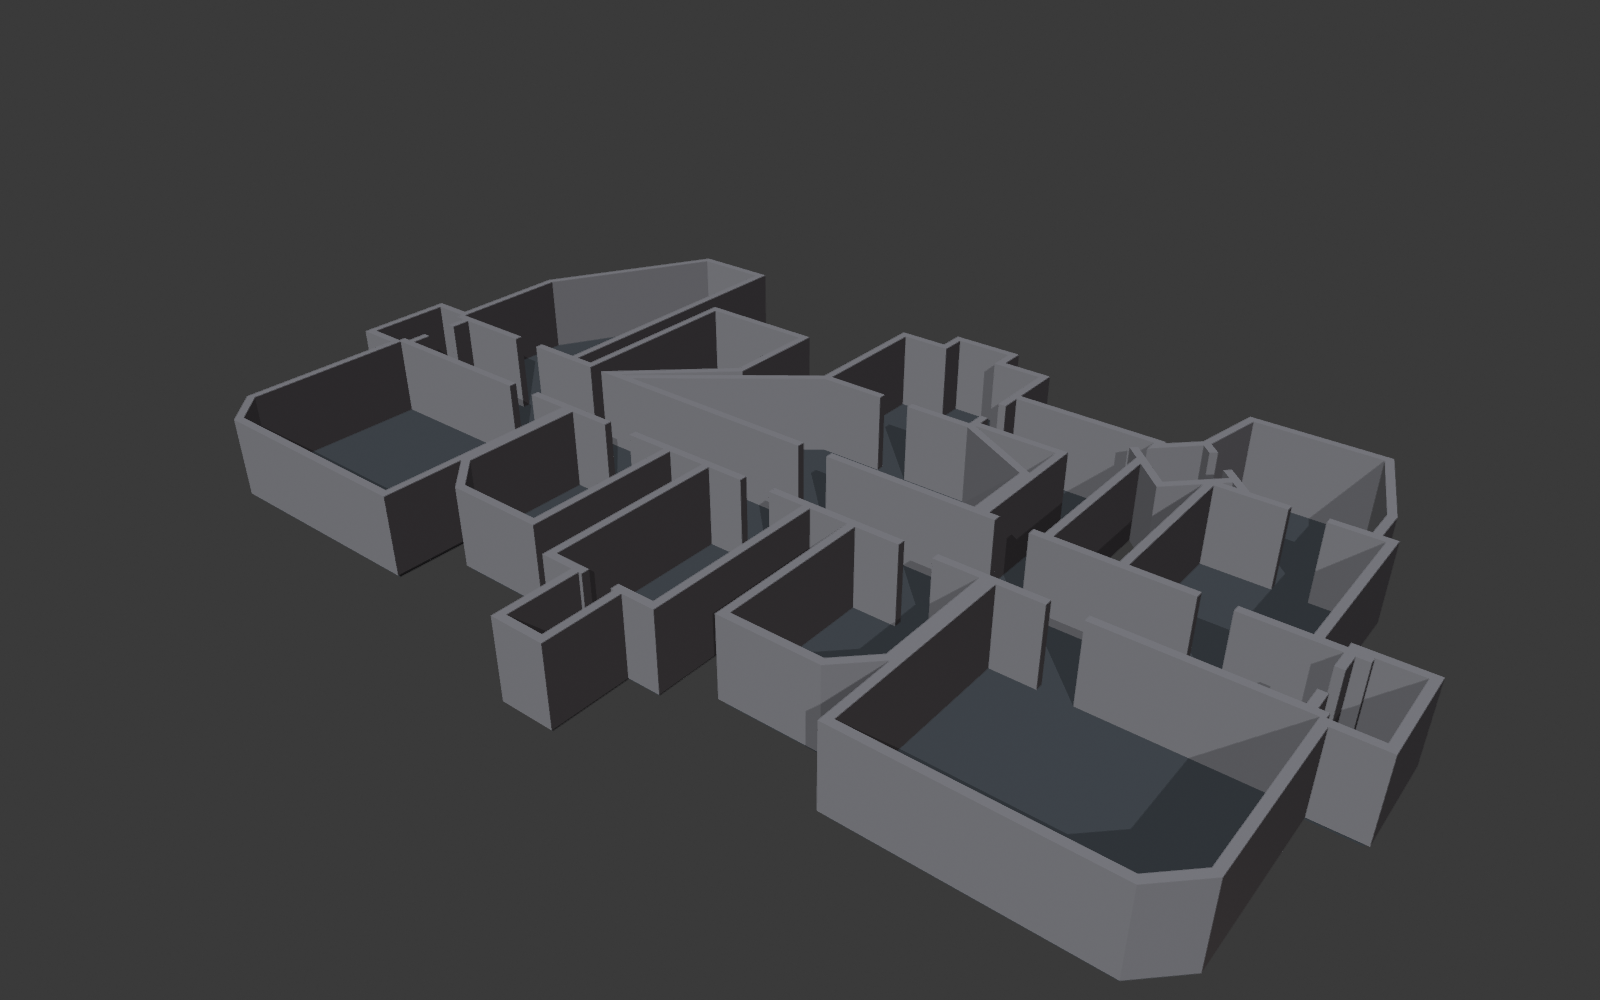
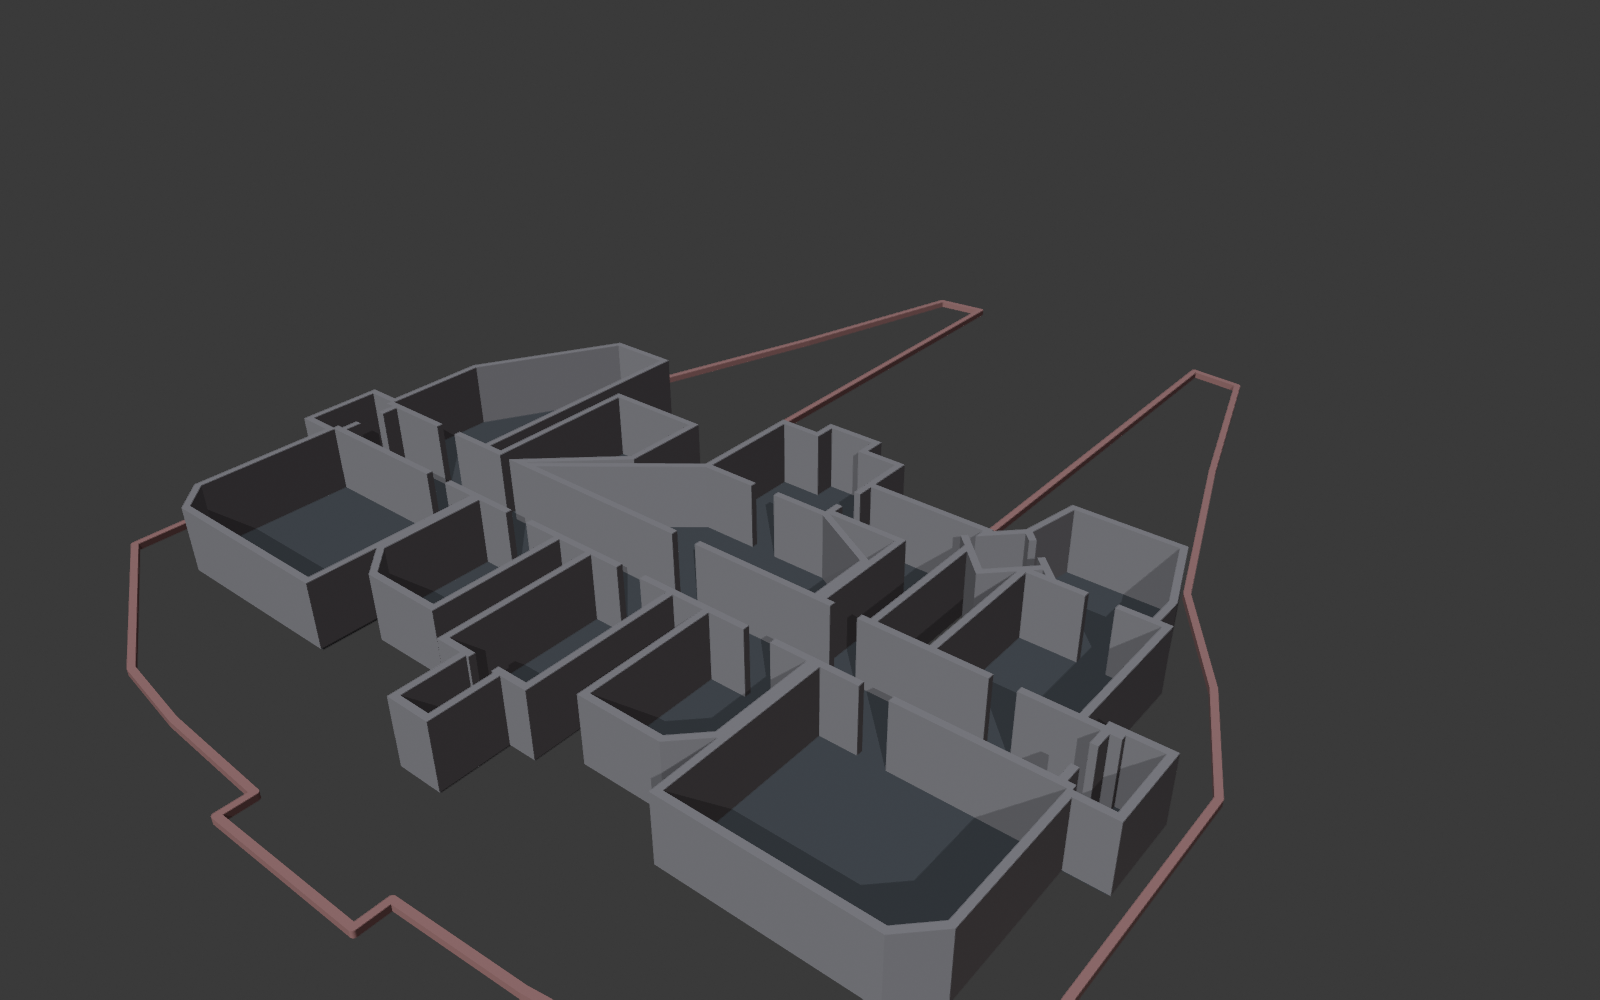
v13.59: Fury hull outline
Claude-Session: https://claude.ai/code/session_01SinQW9aeLHqCBjq9e21Gyo

Changed region(s): [[0.0625, 0.248, 0.9062, 1.0], [0.125, 0.744, 0.3438, 1.0]]

diff --git a/web_shell.html b/web_shell.html
@@ -4,8 +4,8 @@
 <meta charset="utf-8">
 <meta name="viewport" content="width=device-width,initial-scale=1,maximum-scale=1,user-scalable=no,viewport-fit=cover">
 <meta name="theme-color" content="#f6f9fc">
-<meta name="hl-version" content="v13.58">
-<title>Homelancer Digital v13.58</title>
+<meta name="hl-version" content="v13.59">
+<title>Homelancer Digital v13.59</title>
 <style>
 *{box-sizing:border-box}
 html,body{margin:0;width:100%;height:100%;background:#f6f9fc;color:#0e2f5a;font:16px system-ui,sans-serif;overflow:hidden;touch-action:none}

diff --git a/tools/trace/ship_fury_07/blender/build_graybox.py b/tools/trace/ship_fury_07/blender/build_graybox.py
@@ -23,8 +23,11 @@ def add(geom, height, z, name, material):
 P = json.load(open(os.path.join(ENG, "plan.json"))); s = 1.0 / float(P["px_per_m"]); ax = P["mirror_x"]
 to_m = lambda g: affinity.affine_transform(g, [s, 0, 0, -s, -ax * s, 870 * s])   # centre line x 0, nose y 0
 add(to_m(shape(P["floor"])), SLAB, -SLAB, "floor", M_FLOOR); add(to_m(shape(P["walls"])), WALL_H, 0, "walls", M_WALL)
+from shapely.geometry import Polygon
+hull = to_m(Polygon(json.load(open(os.path.join(ENG, "hull_outline.json")))["outline"]))   # exterior outline, red guide
+add(hull.exterior.buffer(0.15), 0.3, -SLAB, "hull_outline", mat("hull_ref", (0.9, 0.45, 0.45)))
 hm = bpy.data.objects.new("scale_human_1.8m", None); hm.empty_display_type = "SINGLE_ARROW"; hm.empty_display_size = 1.8
 bpy.context.scene.collection.objects.link(hm)
 out = os.path.join(HERE, "fury_graybox_WIP_NOT_APPROVED")
 bpy.ops.wm.save_as_mainfile(filepath=out + ".blend"); bpy.ops.export_scene.gltf(filepath=out + ".glb", export_format="GLB")
-b = to_m(shape(P["floor"])).bounds; print("deck m:", round(b[2] - b[0], 1), "x", round(b[3] - b[1], 1))
+b = to_m(shape(P["floor"])).bounds; print("deck m:", round(b[2] - b[0], 1), "x", round(b[3] - b[1], 1), "| hull m:", [round(v, 1) for v in (hull.bounds[2] - hull.bounds[0], hull.bounds[3] - hull.bounds[1])])

diff --git a/tools/trace/ship_fury_07/eng/build_plan.py b/tools/trace/ship_fury_07/eng/build_plan.py
@@ -65,12 +65,14 @@ for p in getattr(walls, "geoms", [walls]):
 cs, _ = cv2.findContours(mask, cv2.RETR_CCOMP, cv2.CHAIN_APPROX_SIMPLE)
 plan = np.zeros_like(src); ov = (src * 0.45).astype(np.uint8)
 for im in (plan, ov): cv2.drawContours(im, cs, -1, (255, 255, 255), 3, cv2.LINE_AA)
+HULL = np.array(json.load(open(os.path.join(HERE, "hull_outline.json")))["outline"], np.int32)   # exterior, light red
+for im in (plan, ov): cv2.polylines(im, [HULL], True, (110, 110, 255), 4, cv2.LINE_AA)
 for (x, y), t in LABELS:
     for im in (plan, ov):
         (w, h), _ = cv2.getTextSize(t, cv2.FONT_HERSHEY_SIMPLEX, 0.8, 2)
         cv2.putText(im, t, (int(x - w / 2), int(y)), cv2.FONT_HERSHEY_SIMPLEX, 0.8, (80, 220, 255), 2, cv2.LINE_AA)
-cv2.imwrite(os.path.join(HERE, "plan.png"), plan[750:1950, 150:1950])
-cv2.imwrite(os.path.join(HERE, "plan_on_map.jpg"), ov[750:1950, 150:1950], [cv2.IMWRITE_JPEG_QUALITY, 88])
+cv2.imwrite(os.path.join(HERE, "plan.png"), plan[0:2080, 150:1950])
+cv2.imwrite(os.path.join(HERE, "plan_on_map.jpg"), ov[0:2080, 150:1950], [cv2.IMWRITE_JPEG_QUALITY, 88])
 json.dump({"units": "map_x4 px", "px_per_m": 40.0, "thickness": T, "door": DOOR, "mirror_x": AX, "floor": mapping(floor), "walls": mapping(walls)},
           open(os.path.join(HERE, "plan.json"), "w"))
 print("ok")

diff --git a/docs/V1.2_BUILD.md b/docs/V1.2_BUILD.md
@@ -2256,3 +2256,6 @@ the camera automatically does a zoom to that section ... helmet, body, lower bod
 
 ## v13.58
 - Grayboxes (WIP, not approved): Malgus Command Deck (door-scale guess, 40 x 58 m, walls 4 m, raised wing stages 0.6 m, hub railing) and Fury interceptor (real scale, deck 40 x 24 m, walls 3 m). */blender/ in tools/trace.
+
+## v13.59
+- Fury: exterior hull outline traced (eng/hull_outline.json, light red on the plan) and added to the graybox. Hull 42.3 x 50.8 m at 40 px/m (sheet says 41 x 47.8 m).
